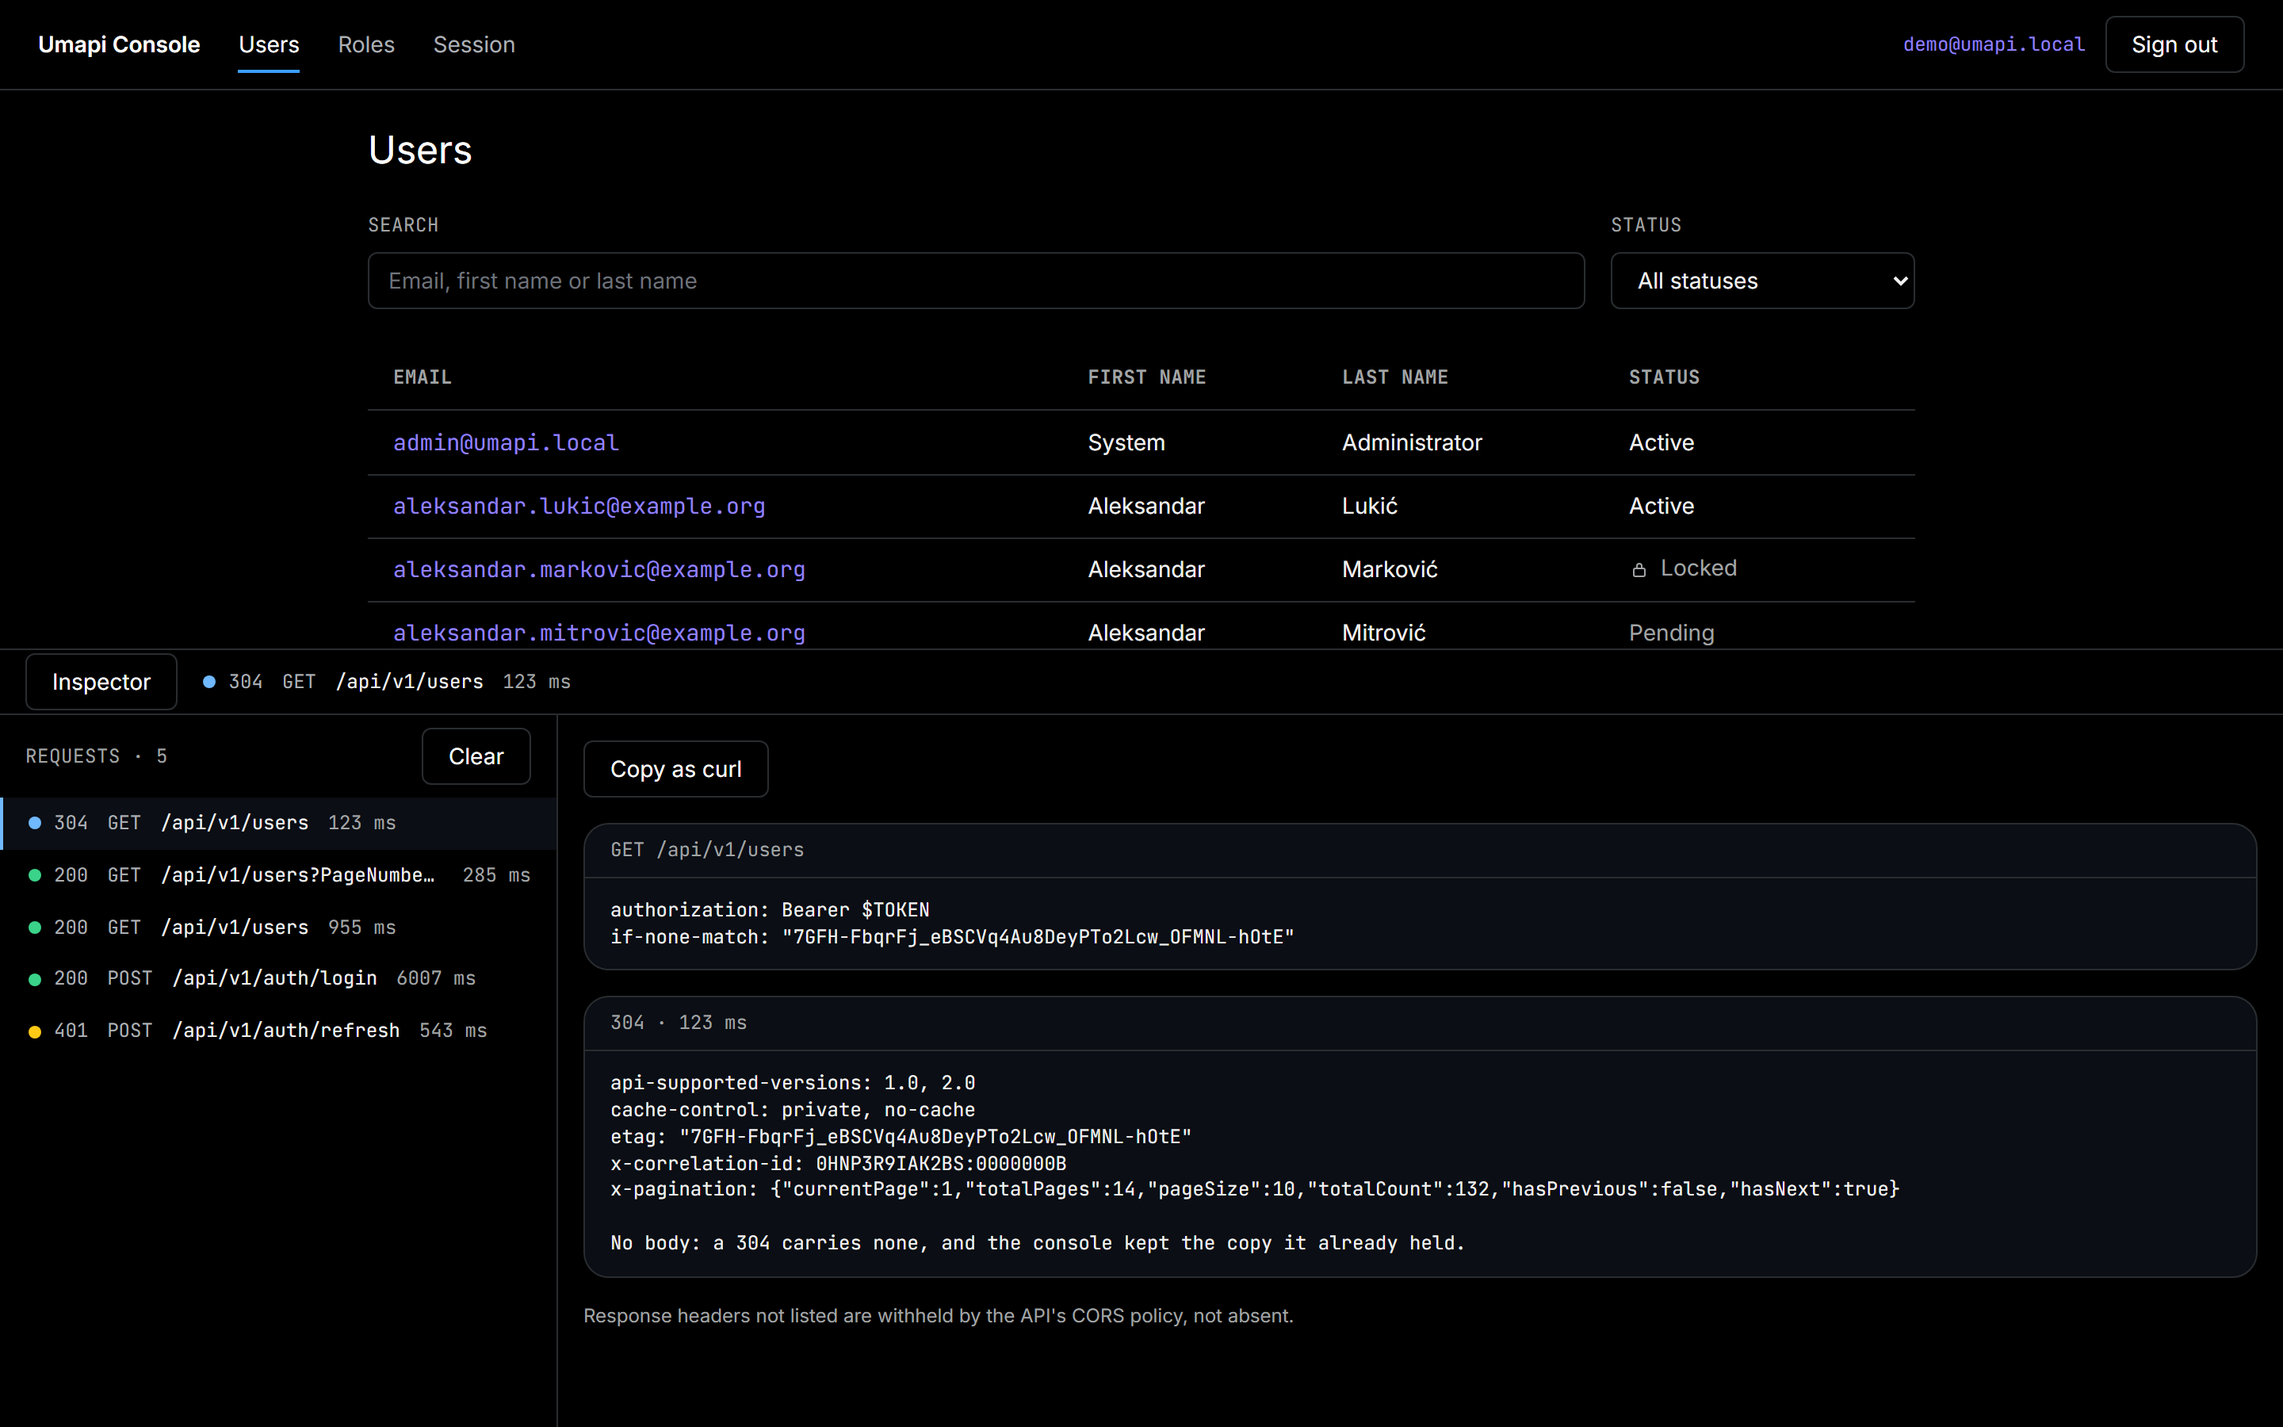
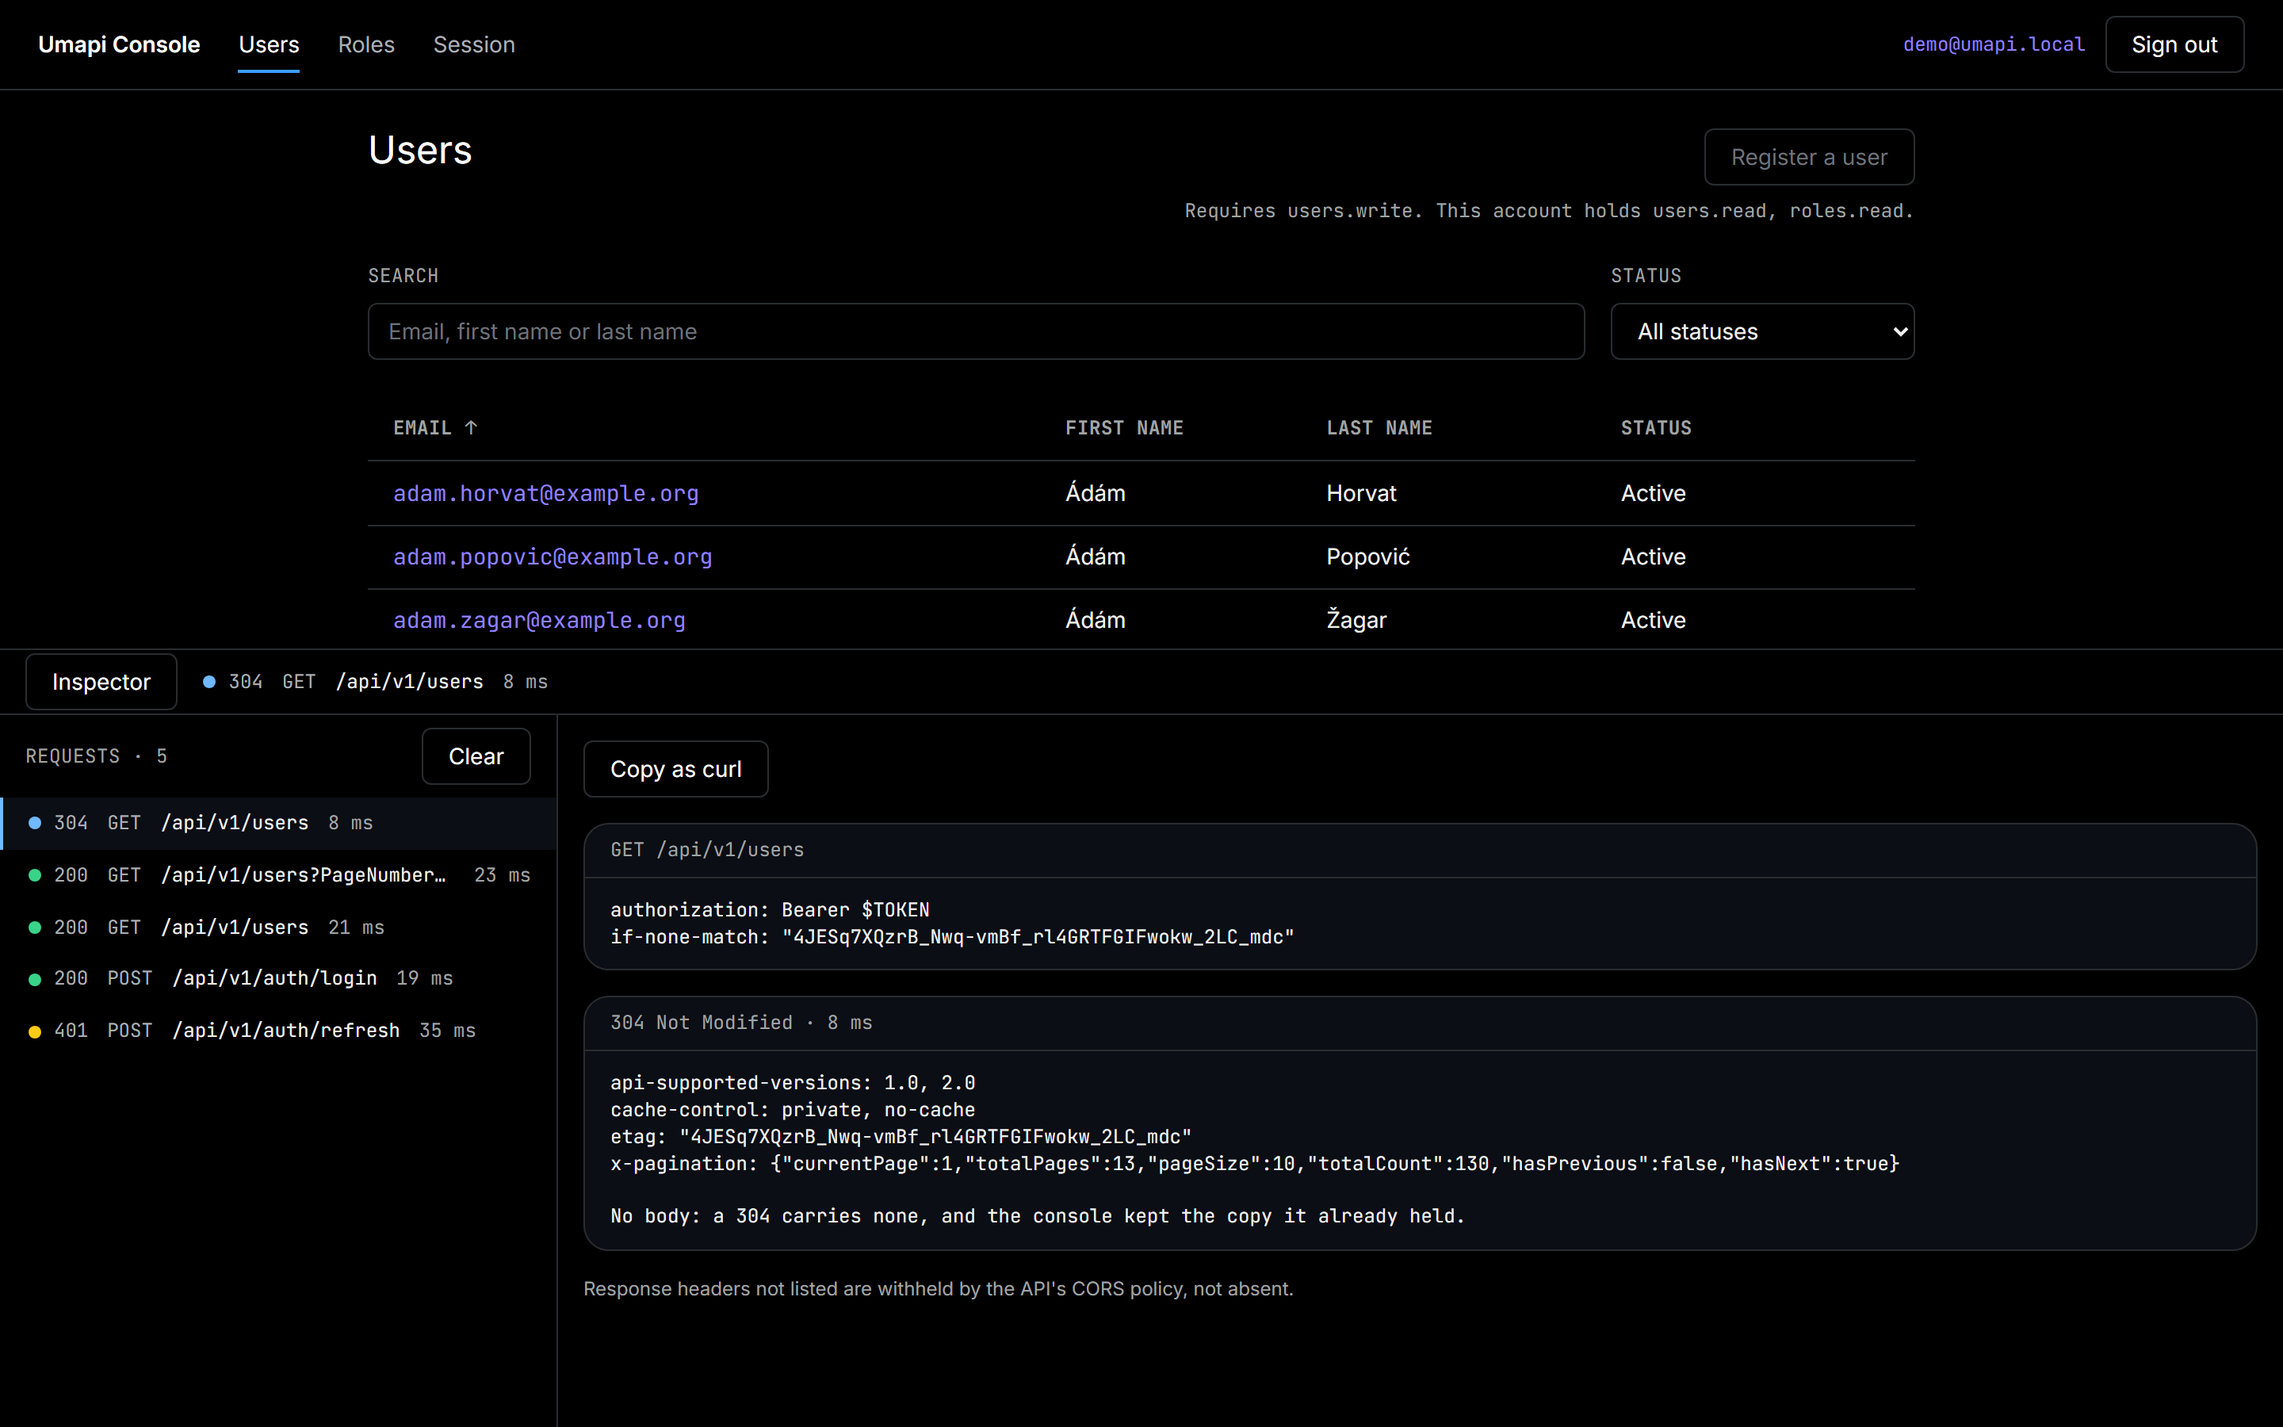
docs: redraw the screenshots, and fix two flaws they showed (#91)
The README's screenshots dated from release 1.0: no landing page, no
registration, no history. They are now drawn by `pnpm docs:screenshots`
(e2e/readme/, its own Playwright configuration) from the production build
with the mock, 1440 x 900 at twice the density, so they can be redrawn
after any visible change instead of taken by hand. The landing page's
screenshot is made from the new directory.

Looking at them showed two flaws, fixed here:

- Register a user floated towards the middle of the directory's header
  for the demo account: the reason under a disabled button set the width
  and the button kept to its left. Button takes `align="end"` for a
  control at the right edge of a row.
- The password field said "At least 8 characters." twice when too short,
  as its hint and as its error, to the eye and to a screen reader. The
  error now says what went wrong: "Too short."

The regular e2e run ignores e2e/readme/, which would otherwise rewrite
docs/images on every run.

diff --git a/e2e/readme/screenshots.spec.ts b/e2e/readme/screenshots.spec.ts
@@ -1,0 +1,78 @@
+import { expect, test, type Page } from '@playwright/test';
+
+import { DEMO_ACCOUNT } from '../../src/lib/api/demo-account';
+import { signInAsAdmin, signInAsDemo } from '../support';
+
+// Draws docs/images: what the README shows, and the directory the landing page
+// shows. See playwright.readme.config.ts.
+
+const IMAGES = 'docs/images';
+
+async function settled(page: Page): Promise<void> {
+  await page.evaluate(() =>
+    Promise.allSettled(document.getAnimations().map((animation) => animation.finished)),
+  );
+  await page.evaluate(() => document.fonts.ready);
+}
+
+async function shoot(page: Page, name: string): Promise<void> {
+  // A resting pointer would light up whatever row is under it.
+  await page.mouse.move(0, 0);
+  await settled(page);
+  await page.screenshot({ path: `${IMAGES}/${name}.png` });
+}
+
+test('the landing page, as a new visitor meets it', async ({ page }) => {
+  await page.goto('/');
+  await expect(page.getByRole('link', { name: 'Try the demo' })).toBeVisible();
+  await expect(page.getByRole('img', { name: /user directory/ })).toBeVisible();
+  await shoot(page, 'landing');
+});
+
+test('sign-in, with the demo account printed', async ({ page }) => {
+  await page.goto('/sign-in');
+  await expect(page.getByRole('region', { name: 'Demo account' })).toBeVisible();
+  await shoot(page, 'sign-in');
+});
+
+test('the directory, as the demo account sees it', async ({ page }) => {
+  await signInAsDemo(page, '/users');
+  await expect(page.getByText(/^200 · \d+ results$/)).toBeVisible();
+  await shoot(page, 'directory');
+});
+
+test("a user's detail, with its history", async ({ page }) => {
+  // Tall enough for every panel: a full-page capture would draw the docked
+  // inspector bar across the middle of the page.
+  await page.setViewportSize({ width: 1440, height: 1500 });
+  await signInAsDemo(page, '/users?q=reader');
+  await page.getByRole('link', { name: DEMO_ACCOUNT.email }).click();
+  await expect(page.getByRole('region', { name: 'History' }).getByText('Registered')).toBeVisible();
+  await shoot(page, 'detail');
+});
+
+test('the inspector, showing a page read again answered 304', async ({ page }) => {
+  await signInAsDemo(page, '/users');
+  await page.getByRole('button', { name: 'Next' }).click();
+  await expect(page.getByText(/^Page 2 of \d+$/)).toBeVisible();
+  await page.getByRole('button', { name: 'Previous' }).click();
+  await expect(page.getByText(/^Page 1 of \d+$/)).toBeVisible();
+
+  await page.getByRole('button', { name: 'Inspector' }).click();
+  const newest = page.getByRole('list', { name: 'Requests' }).getByRole('button').first();
+  await expect(newest).toContainText(/^304/);
+  await shoot(page, 'inspector');
+});
+
+test('registering a user, as the administrator', async ({ page }) => {
+  await signInAsAdmin(page, '/users');
+  await page.getByRole('button', { name: 'Register a user' }).click();
+  const dialog = page.getByRole('dialog', { name: 'Register a user' });
+  await dialog.getByLabel('Email').fill('nova.korisnica@example.com');
+  await dialog.getByLabel('First name').fill('Nova');
+  await dialog.getByLabel('Last name').fill('Korisnica');
+  await dialog.getByLabel('Password').fill('short');
+  await dialog.getByRole('button', { name: 'Register' }).click();
+  await expect(dialog.getByLabel('Password')).toHaveAttribute('aria-invalid', 'true');
+  await shoot(page, 'register');
+});

diff --git a/playwright.readme.config.ts b/playwright.readme.config.ts
@@ -1,0 +1,33 @@
+import { defineConfig } from '@playwright/test';
+
+// The README's screenshots and the landing page's, made rather than taken by
+// hand (`pnpm docs:screenshots`): the production build with the mock, as the
+// e2e specs run it, so the data is the mock's seed and every run draws the same
+// screens. Chromium, 1440 x 900 at twice the density, reduced motion so nothing
+// is caught mid-fade. Not a test of anything; run it after a visible change and
+// commit the images it writes to docs/images.
+const PORT = 5276;
+const OUT_DIR = 'dist-readme';
+const baseURL = `http://127.0.0.1:${PORT}`;
+
+export default defineConfig({
+  testDir: './e2e/readme',
+  outputDir: 'test-results/readme',
+  fullyParallel: false,
+  workers: 1,
+  retries: 0,
+  reporter: 'list',
+  use: {
+    baseURL,
+    browserName: 'chromium',
+    viewport: { width: 1440, height: 900 },
+    deviceScaleFactor: 2,
+    reducedMotion: 'reduce',
+  },
+  webServer: {
+    command: `pnpm exec vite build --mode e2e --outDir ${OUT_DIR} && pnpm exec vite preview --outDir ${OUT_DIR} --port ${PORT} --strictPort --host 127.0.0.1`,
+    url: baseURL,
+    reuseExistingServer: false,
+    timeout: 120_000,
+  },
+});

diff --git a/src/ui/Button.tsx b/src/ui/Button.tsx
@@ -27,6 +27,12 @@ export interface ButtonProps extends Omit<
   disabledReason?: ReactNode | undefined;
   /** A request is in flight. The control is busy and refuses a second activation. */
   pending?: boolean | undefined;
+  /**
+   * Where a disabled control and its reason line up: `start` (the default), or
+   * `end` for a control at the right edge of a row, so the reason does not push
+   * it towards the middle.
+   */
+  align?: 'start' | 'end' | undefined;
   children: ReactNode;
 }
 
@@ -49,6 +55,7 @@ export function Button({
   variant = 'ghost',
   disabledReason,
   pending = false,
+  align = 'start',
   children,
   className,
   type = 'button',
@@ -87,7 +94,9 @@ export function Button({
   }
 
   return (
-    <span className="inline-flex flex-col items-start gap-app-1">
+    <span
+      className={`inline-flex flex-col gap-app-1 ${align === 'end' ? 'items-end text-right' : 'items-start'}`}
+    >
       {control}
       <span id={reasonId} className="font-mono text-app-meta text-fg-muted">
         {disabledReason}

diff --git a/playwright.config.ts b/playwright.config.ts
@@ -33,7 +33,9 @@ export default defineConfig({
   // runs it: it depends on a free instance waking (build plan section 9).
   // e2e/lighthouse/ measures Web Vitals through its own configuration
   // (playwright.lighthouse.config.ts, #63): one browser, one worker.
-  testIgnore: ['**/live/**', '**/lighthouse/**', '**/visual/**'],
+  // e2e/readme/ draws the README's screenshots (playwright.readme.config.ts)
+  // and must not run here: it would rewrite docs/images on every run.
+  testIgnore: ['**/live/**', '**/lighthouse/**', '**/visual/**', '**/readme/**'],
   fullyParallel: true,
   forbidOnly: Boolean(process.env.CI),
   retries: process.env.CI ? 1 : 0,

diff --git a/src/features/users/RegisterUserDialog.test.tsx b/src/features/users/RegisterUserDialog.test.tsx
@@ -105,9 +105,10 @@ describe('register-user (inventory section 3.13)', () => {
     expect(within(dialog).getByLabelText('First name')).toHaveAccessibleDescription(
       'Enter a first name.',
     );
-    // The error first, then the hint: what went wrong, then what is expected.
+    // The error first, then the hint: what went wrong, then what is expected,
+    // each said once.
     expect(within(dialog).getByLabelText('Password')).toHaveAccessibleDescription(
-      `At least 8 characters. ${PASSWORD_HINT}`,
+      `Too short. ${PASSWORD_HINT}`,
     );
     expect(seen.keys).toEqual([]);
   });

diff --git a/src/features/users/register.ts b/src/features/users/register.ts
@@ -54,7 +54,9 @@ export function check(values: Registration): RegistrationErrors {
   }
 
   if (values.password.length < LIMITS.passwordMin) {
-    errors.password = `At least ${LIMITS.passwordMin} characters.`;
+    // What went wrong; the field's hint already says what is expected, and
+    // repeating it read the same sentence twice (found in the README's screenshot).
+    errors.password = 'Too short.';
   } else if (values.password.length > LIMITS.passwordMax) {
     errors.password = `At most ${LIMITS.passwordMax} characters.`;
   }

diff --git a/eslint.config.js b/eslint.config.js
@@ -124,6 +124,7 @@ export default tseslint.config(
       'test-results',
       'blob-report',
       'dist-e2e',
+      'dist-readme',
       // Generated by `pnpm mock:worker`; MSW's own file, never edited here.
       'public/mockServiceWorker.js',
     ],
@@ -166,6 +167,7 @@ export default tseslint.config(
       'playwright.live.config.ts',
       'playwright.lighthouse.config.ts',
       'playwright.visual.config.ts',
+      'playwright.readme.config.ts',
     ],
     languageOptions: {
       globals: globals.node,

diff --git a/src/features/users/register.test.ts b/src/features/users/register.test.ts
@@ -21,7 +21,7 @@ describe('the checks made before sending (the rules of the API)', () => {
       email: 'Enter an email address.',
       firstName: 'Enter a first name.',
       lastName: 'Enter a last name.',
-      password: 'At least 8 characters.',
+      password: 'Too short.',
     });
     expect(check({ ...VALID, email: 'no-at-sign' }).email).toBe(
       'Enter an email address like name@example.com.',

diff --git a/src/features/users/DirectoryScreen.tsx b/src/features/users/DirectoryScreen.tsx
@@ -231,6 +231,7 @@ export function DirectoryScreen() {
         </h1>
         {/* Gated like every write (section 2.6): the reason shows, nothing is sent. */}
         <Button
+          align="end"
           disabledReason={register.allowed ? undefined : register.reason}
           onClick={() => setRegistering(true)}
         >

diff --git a/docs/SCREEN-INVENTORY.md b/docs/SCREEN-INVENTORY.md
@@ -446,7 +446,7 @@ From the directory (section 3.3), for an account holding `users.write` (#82).
 | State | Trigger | Renders | The way out |
 |---|---|---|---|
 | `open` | **Register a user** | Titled *Register a user*. Four fields, all required by the API: **Email**, **First name**, **Last name**, **Password**, focus on *Email*. The password is `autocomplete="new-password"`, with the hint *At least 8 characters.* tied to it, and a **Show password** toggle (`aria-pressed`). **Register** sits in the footer and submits the form; Enter in any field does the same. `Escape` and **Cancel** close it, and focus returns to **Register a user**. | Register or cancel |
-| `invalid-before-sending` | **Register** with a field the API would refuse | Each field says what is wrong on the field: *Enter an email address.*, *Enter an email address like name@example.com.*, *Enter a first name.*, *Enter a last name.*, *At least 8 characters.*, *At most N characters.* (the API's own limits: email 256, names 100, password 8 to 128). Focus goes to the first. Nothing is sent. A message goes as its field is corrected. | Correct |
+| `invalid-before-sending` | **Register** with a field the API would refuse | Each field says what is wrong on the field: *Enter an email address.*, *Enter an email address like name@example.com.*, *Enter a first name.*, *Enter a last name.*, *Too short.* under the password's hint *At least 8 characters.*, *At most N characters.* (the API's own limits: email 256, names 100, password 8 to 128). Focus goes to the first. Nothing is sent. A message goes as its field is corrected. | Correct |
 | `submitting` | **Register** with every field acceptable | Names and email are sent trimmed, the password as typed, with an `Idempotency-Key` (the API's ADR 0023). **Register** is pending, the fields are read-only, and neither **Cancel** nor `Escape` closes the dialog until the answer arrives. | Response |
 | `registered` | 201 | The dialog closes, the directory's pages are marked stale, and the new user's detail opens (section 3.4). | — |
 | `invalid` | 422 on fields, or 409 `User.EmailNotUnique` | Each message on its field, whatever the casing of its key (row 19); a taken email reads *A user with this email already exists.* on *Email* (row 74). Focus on the first. | Correct |

diff --git a/README.md b/README.md
@@ -54,14 +54,22 @@ with the permission it needs; the API would refuse it anyway.
 
 <table>
   <tr>
-    <td><img src="docs/images/directory.png" alt="The user directory, page 1 of 14, with names carrying diacritics"></td>
-    <td><img src="docs/images/detail.png" alt="The demo account's detail: Edit, Lock, Remove and Assign role disabled, each with the permission it requires"></td>
+    <td><img src="docs/images/landing.png" alt="The public landing page: what the console makes visible, with Try the demo and Read the code"></td>
+    <td><img src="docs/images/directory.png" alt="The user directory as the demo account sees it: page 1 of 13, names carrying diacritics, and Register a user disabled with the permission it needs"></td>
+  </tr>
+  <tr>
+    <td><img src="docs/images/detail.png" alt="The demo account's detail: every write disabled with the permission it requires, and the History panel listing who changed what and when"></td>
+    <td><img src="docs/images/register.png" alt="Registering a user as the administrator: a password refused before sending, Too short under its hint"></td>
   </tr>
   <tr>
     <td><img src="docs/images/sign-in.png" alt="The sign-in screen with the demo account printed under the form"></td>
     <td></td>
   </tr>
 </table>
+
+The screenshots are drawn from the production build with the mock by
+`pnpm docs:screenshots` (`e2e/readme/`), not taken by hand: run it after a
+visible change and commit what it writes to `docs/images`.
 
 ## Architecture
 

diff --git a/docs/TESTING.md b/docs/TESTING.md
@@ -26,6 +26,7 @@ pnpm test:run       # Vitest once
 pnpm coverage       # Vitest once, with the coverage floor (vite.config.ts)
 pnpm test:e2e       # Playwright: builds the e2e bundle, serves it, runs every project
 pnpm test:live      # Playwright against the deployed pair - by hand only
+pnpm docs:screenshots  # redraws docs/images from the e2e bundle - not a test
 ```
 
 `pnpm test:e2e` needs the browsers once: `pnpm exec playwright install chromium
